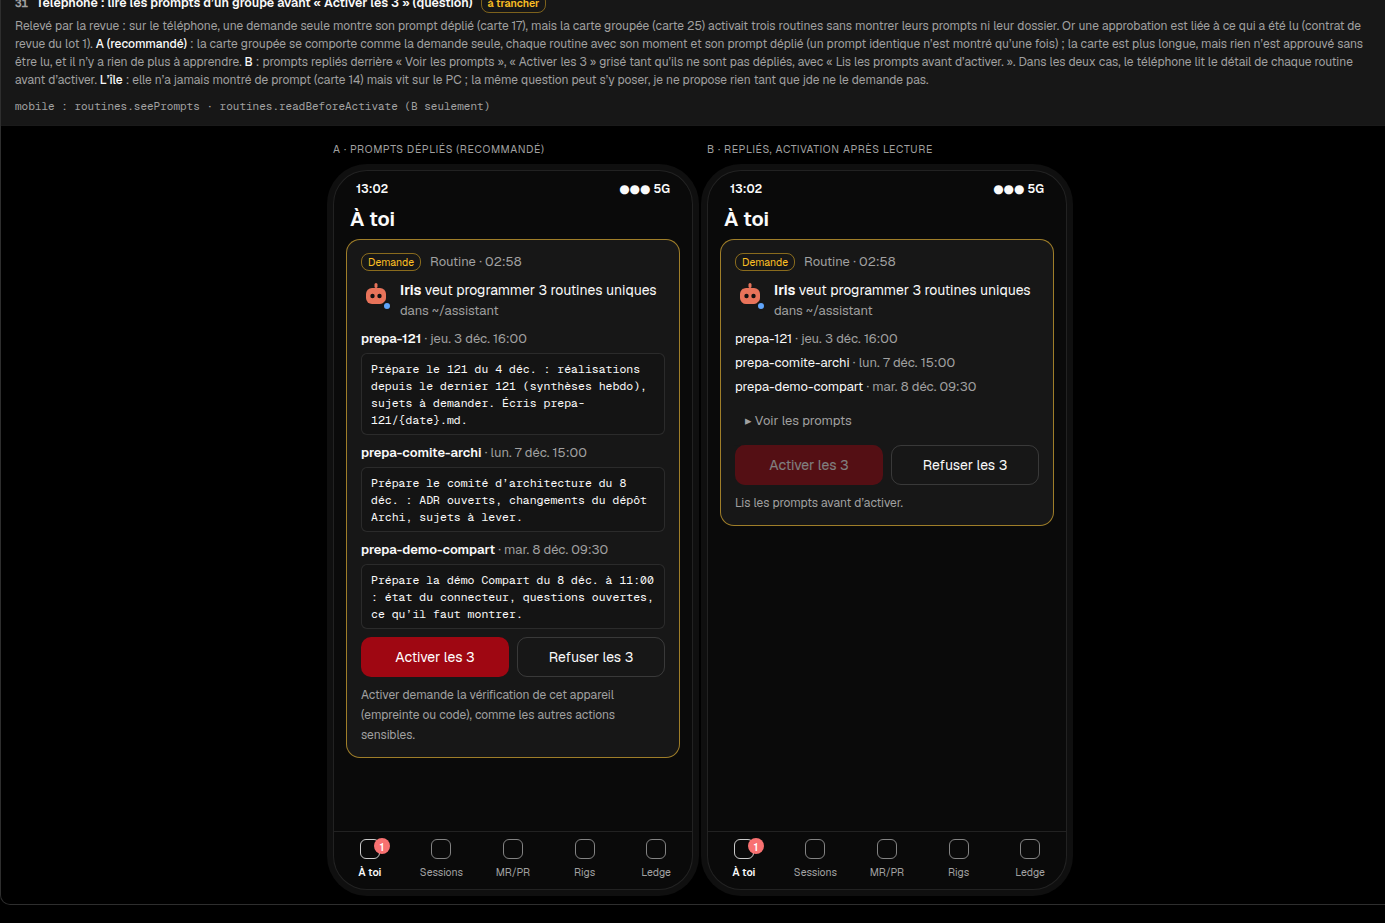
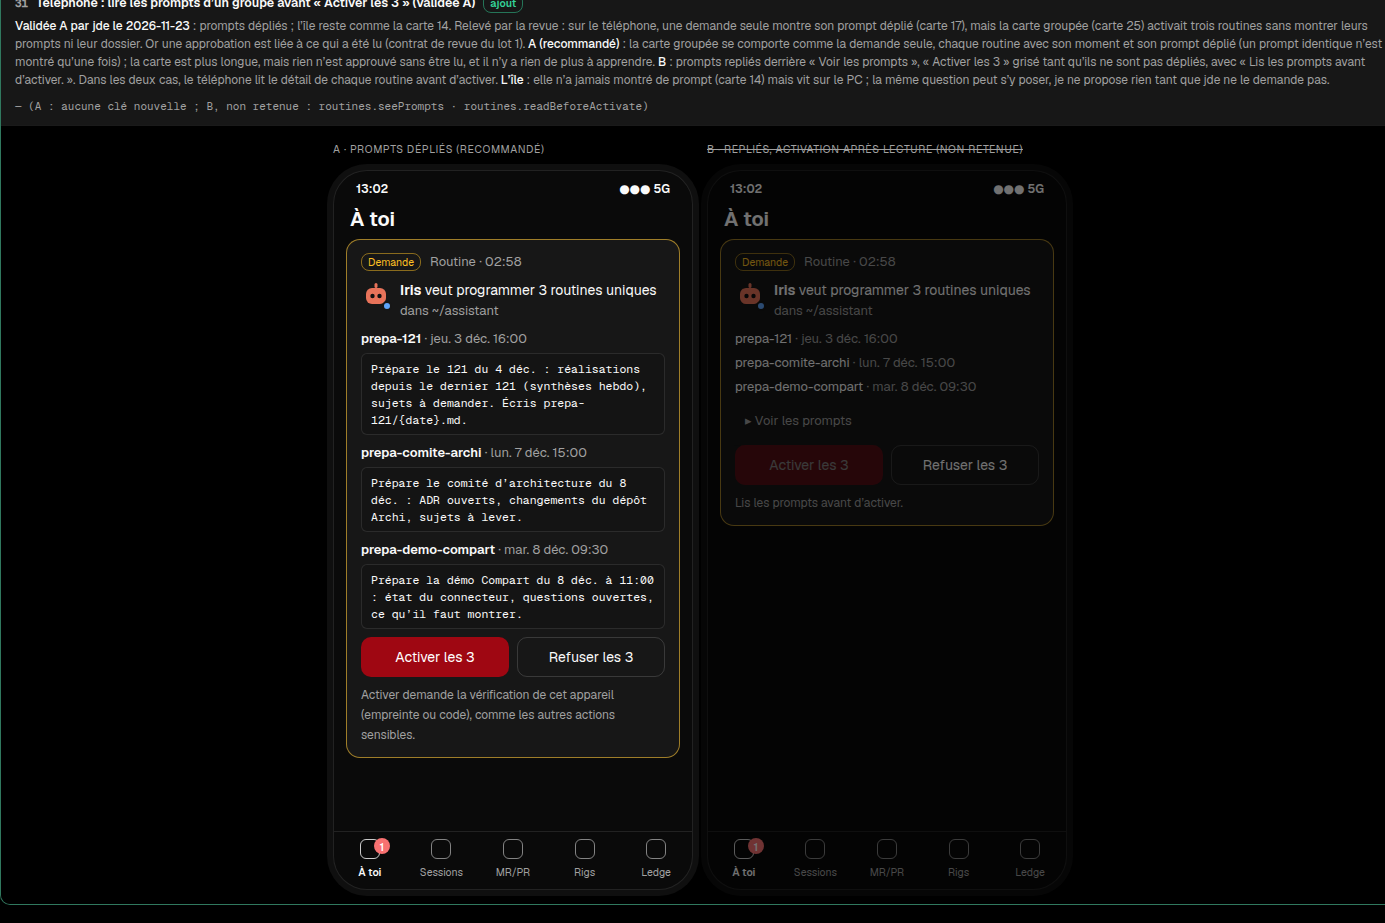
docs(mockups): Routines — card 31 validated A by jde
The phone's grouped request shows each routine's moment and unfolded prompt,
like a single request; option B is struck out. The island stays as card 14.

diff --git a/docs/mockups/ledge-routines.html b/docs/mockups/ledge-routines.html
@@ -1113,10 +1113,10 @@ function groupPromptCards(){
   const closed = items.map(([n,w]) => `<span style="font-size:13px"><span style="color:var(--foreground)">${n}</span> <span class="meta">· ${w}</span></span>`).join('');
   const A1 = `<div class="phone">${stat}<div class="hd"><h3>${x.atoi}</h3></div><div class="cnt" style="overflow:hidden"><div class="pcard pending">${head}${open}<div class="acts"><button class="btn pri">${a.activateAll(3)}</button><button class="btn">${a.refuseAll(3)}</button></div><div class="meta" style="font-size:12px">${x.pVerify}</div></div></div>${tabbar}</div>`;
   const B1 = `<div class="phone">${stat}<div class="hd"><h3>${x.atoi}</h3></div><div class="cnt"><div class="pcard pending">${head}<div style="display:flex;flex-direction:column;gap:4px">${closed}</div><button class="btn ghost" style="align-self:flex-start;height:32px;font-size:13px">▸ ${P.see}</button><div class="acts"><button class="btn pri" disabled>${a.activateAll(3)}</button><button class="btn">${a.refuseAll(3)}</button></div><div class="meta" style="font-size:12px">${P.gate}</div></div></div>${tabbar}</div>`;
-  return [{tag:'q', title:'Téléphone : lire les prompts d’un groupe avant « Activer les 3 » (question)', wide:true,
-    why:'Relevé par la revue : sur le téléphone, une demande seule montre son prompt déplié (carte 17), mais la carte groupée (carte 25) activait trois routines sans montrer leurs prompts ni leur dossier. Or une approbation est liée à ce qui a été lu (contrat de revue du lot 1). <b>A (recommandé)</b> : la carte groupée se comporte comme la demande seule, chaque routine avec son moment et son prompt déplié (un prompt identique n’est montré qu’une fois) ; la carte est plus longue, mais rien n’est approuvé sans être lu, et il n’y a rien de plus à apprendre. <b>B</b> : prompts repliés derrière « Voir les prompts », « Activer les 3 » grisé tant qu’ils ne sont pas dépliés, avec « Lis les prompts avant d’activer. ». Dans les deux cas, le téléphone lit le détail de chaque routine avant d’activer. <b>L’île</b> : elle n’a jamais montré de prompt (carte 14) mais vit sur le PC ; la même question peut s’y poser, je ne propose rien tant que jde ne le demande pas.',
-    keys:'mobile : routines.seePrompts · routines.readBeforeActivate (B seulement)',
-    scene: `<div class="col"><div class="cap">A · ${fr?'prompts dépliés (recommandé)':'prompts unfolded (recommended)'}</div>${A1}</div><div class="col"><div class="cap">B · ${fr?'repliés, activation après lecture':'folded, activate after reading'}</div>${B1}</div>`}];
+  return [{tag:'add', title:'Téléphone : lire les prompts d’un groupe avant « Activer les 3 » (validée A)', wide:true,
+    why:'<b>Validée A par jde le 2026-11-23</b> : prompts dépliés ; l’île reste comme la carte 14. Relevé par la revue : sur le téléphone, une demande seule montre son prompt déplié (carte 17), mais la carte groupée (carte 25) activait trois routines sans montrer leurs prompts ni leur dossier. Or une approbation est liée à ce qui a été lu (contrat de revue du lot 1). <b>A (recommandé)</b> : la carte groupée se comporte comme la demande seule, chaque routine avec son moment et son prompt déplié (un prompt identique n’est montré qu’une fois) ; la carte est plus longue, mais rien n’est approuvé sans être lu, et il n’y a rien de plus à apprendre. <b>B</b> : prompts repliés derrière « Voir les prompts », « Activer les 3 » grisé tant qu’ils ne sont pas dépliés, avec « Lis les prompts avant d’activer. ». Dans les deux cas, le téléphone lit le détail de chaque routine avant d’activer. <b>L’île</b> : elle n’a jamais montré de prompt (carte 14) mais vit sur le PC ; la même question peut s’y poser, je ne propose rien tant que jde ne le demande pas.',
+    keys:'— (A : aucune clé nouvelle ; B, non retenue : routines.seePrompts · routines.readBeforeActivate)',
+    scene: `<div class="col"><div class="cap">A · ${fr?'prompts dépliés (recommandé)':'prompts unfolded (recommended)'}</div>${A1}</div><div class="col"><div class="cap" style="text-decoration:line-through">B · ${fr?'repliés, activation après lecture (non retenue)':'folded, activate after reading (not chosen)'}</div><div style="opacity:.45">${B1}</div></div>`}];
 }
 
 function render(){
